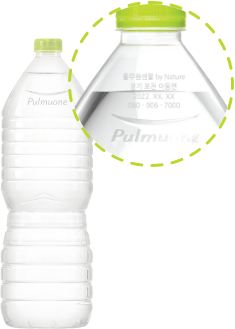
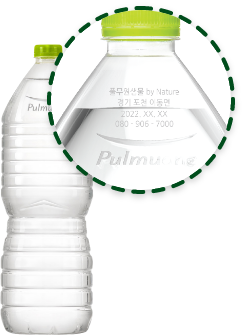
Design : 브랜드 think 무라벨 제품정보표기 이미지 및 스타일 일부 변경

Changed region(s): [[0.0, 0.0, 1.0, 1.0]]

diff --git a/src/pages/brand/think/index.js b/src/pages/brand/think/index.js
@@ -82,21 +82,21 @@ function Think() {
           <h3>무라벨 제품 정보 표기</h3>
           <ul className={cx('list')}>
             <li>
-              <img src={label_item01} alt="" />
+              <div className={cx('image')} style={{ backgroundImage: `url(${label_item01})` }}></div>
               <div className={cx('info')}>
                 <h4>낱병</h4>
                 <p>제품명, 수원지, 제조일, 고객센터 번호</p>
               </div>
             </li>
             <li>
-              <img src={label_item02} alt="" />
+              <div className={cx('image')} style={{ backgroundImage: `url(${label_item02})` }}></div>
               <div className={cx('info')}>
                 <h4>팩 전면</h4>
                 <p>수원지 정보</p>
               </div>
             </li>
             <li>
-              <img src={label_item03} alt="" />
+              <div className={cx('image')} style={{ backgroundImage: `url(${label_item03})` }}></div>
               <div className={cx('info')}>
                 <h4>팩 후면</h4>
                 <p>무기물질함량, 제품 상세 정보</p>

diff --git a/src/pages/brand/think/index.module.scss b/src/pages/brand/think/index.module.scss
@@ -166,9 +166,14 @@
             display: flex;
             flex-direction: column;
             justify-content: space-between;
+            width: 30%;
 
-            > img {
-              width: auto;
+            > .image {
+              background-repeat: no-repeat;
+              background-size: contain;
+              background-position: center center;
+              width: 100%;
+              min-height: 18.125rem;
             }
 
             > .info {
